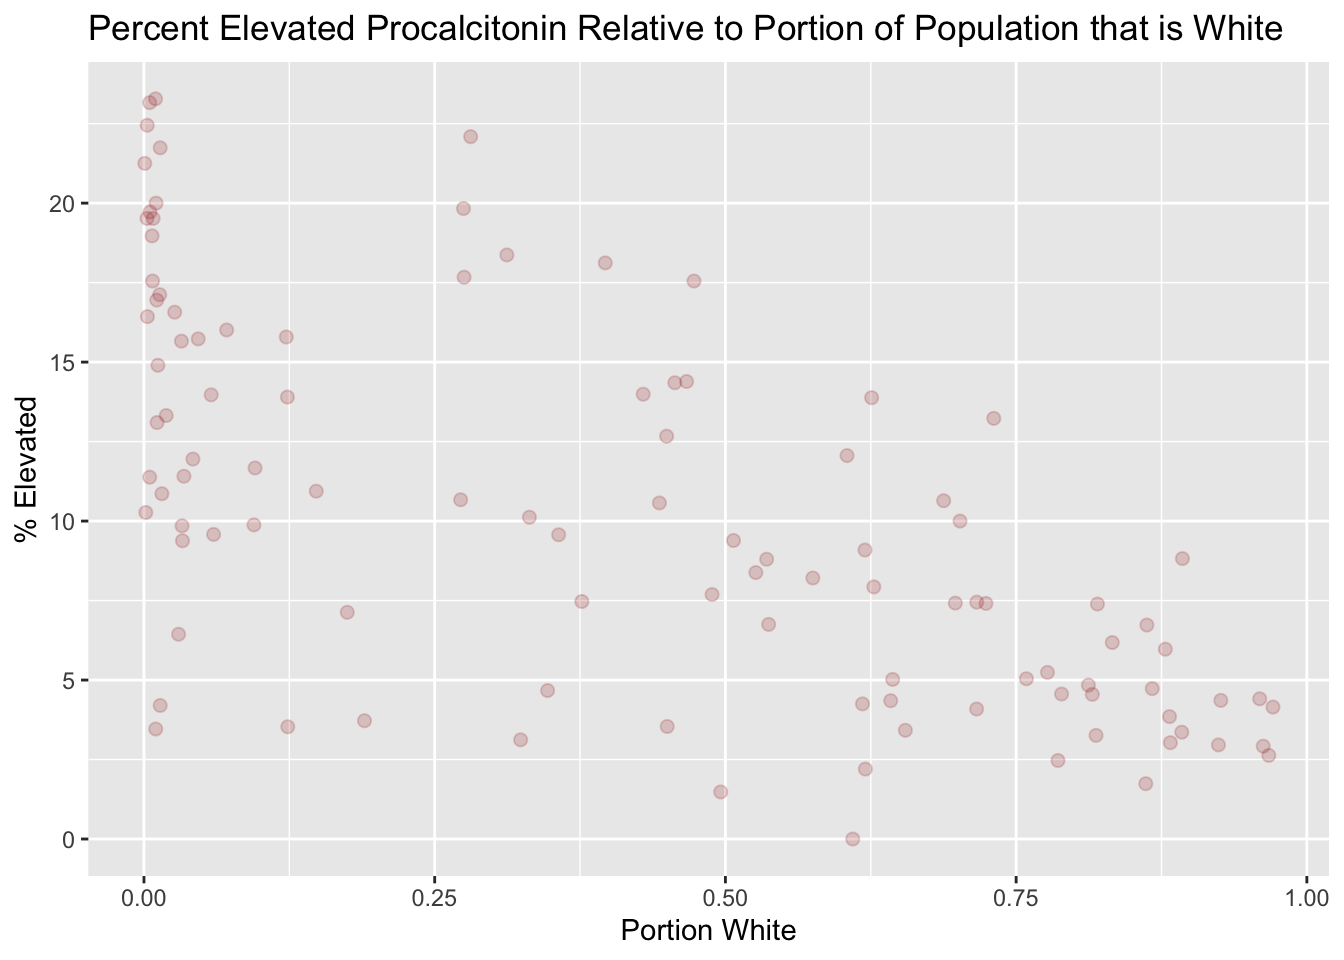
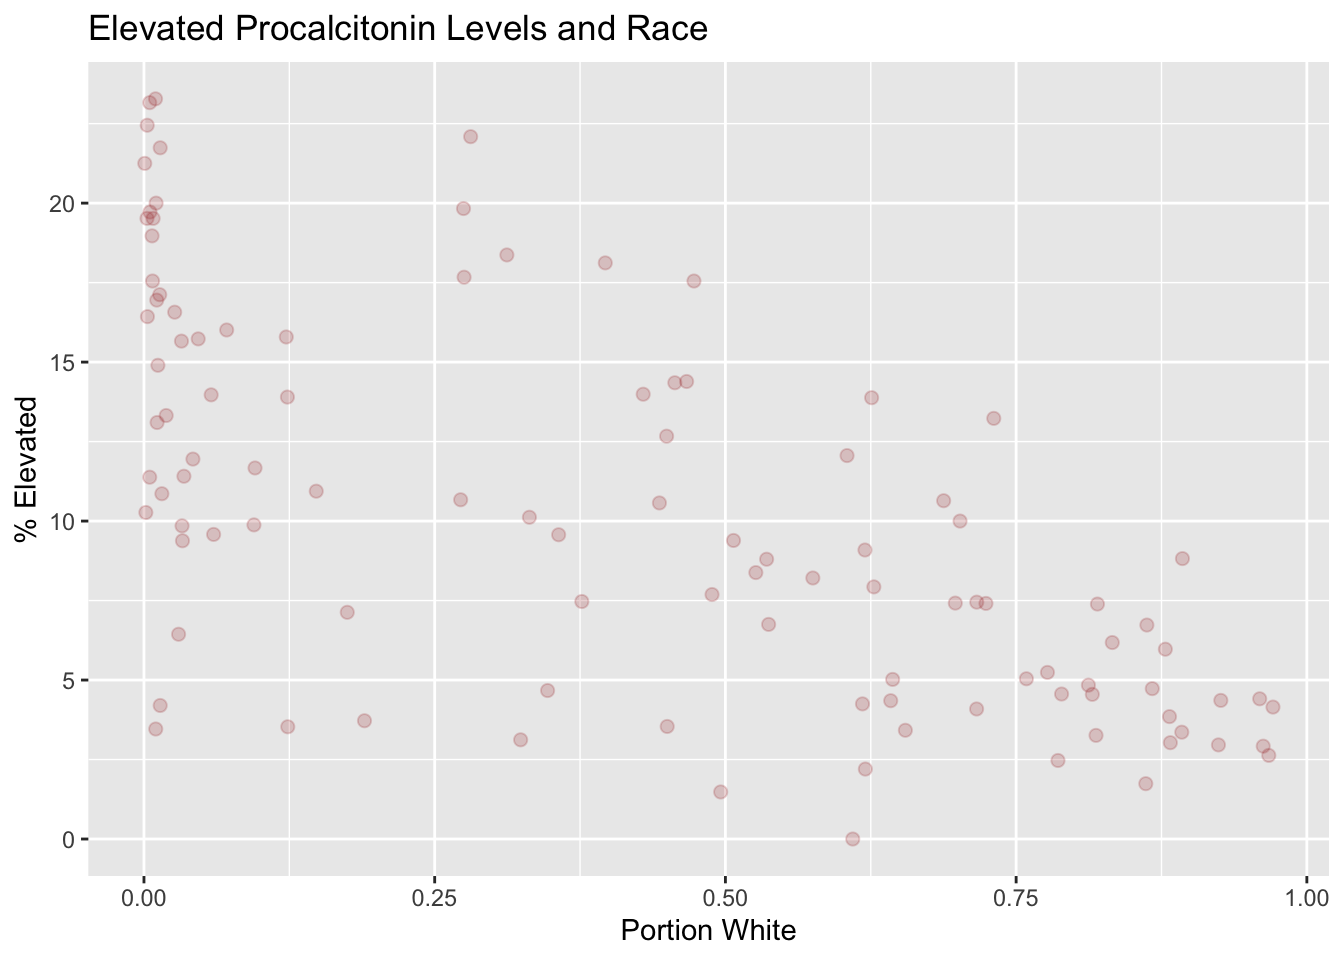
first commit

Changed region(s): [[0.0625, 0.0, 0.9375, 0.0625]]

diff --git a/docs/stl_lead_inequity.html b/docs/stl_lead_inequity.html
@@ -463,7 +463,7 @@ The following objects are masked from 'package:stats':
 <p>#Creating a Scatterplot</p>
 <div class="cell">
 <div class="sourceCode cell-code" id="cb12"><pre class="sourceCode r code-with-copy"><code class="sourceCode r"><span id="cb12-1"><a href="#cb12-1" aria-hidden="true" tabindex="-1"></a>stl_lead_plot <span class="ot">&lt;-</span> <span class="fu">ggplot</span>(<span class="at">data =</span> stl_lead_prop, <span class="fu">aes</span>(<span class="at">x =</span> prop_white, <span class="at">y =</span> pct_elevated)) <span class="sc">+</span> <span class="fu">geom_point</span>(<span class="at">size =</span> <span class="dv">2</span>, <span class="at">alpha =</span> <span class="dv">1</span><span class="sc">/</span><span class="dv">5</span>, <span class="at">colour =</span> <span class="st">"brown"</span>) <span class="sc">+</span></span>
-<span id="cb12-2"><a href="#cb12-2" aria-hidden="true" tabindex="-1"></a>  <span class="fu">labs</span>(<span class="at">title =</span> <span class="st">"Percent Elevated Procalcitonin Relative to Portion of Population that is White"</span>,</span>
+<span id="cb12-2"><a href="#cb12-2" aria-hidden="true" tabindex="-1"></a>  <span class="fu">labs</span>(<span class="at">title =</span> <span class="st">"Elevated Procalcitonin Levels and Race"</span>,</span>
 <span id="cb12-3"><a href="#cb12-3" aria-hidden="true" tabindex="-1"></a>         <span class="at">x =</span> <span class="st">"Portion White"</span>,</span>
 <span id="cb12-4"><a href="#cb12-4" aria-hidden="true" tabindex="-1"></a>         <span class="at">y =</span> <span class="st">"% Elevated"</span>)</span>
 <span id="cb12-5"><a href="#cb12-5" aria-hidden="true" tabindex="-1"></a>stl_lead_plot </span></code><button title="Copy to Clipboard" class="code-copy-button"><i class="bi"></i></button></pre></div>
@@ -477,6 +477,9 @@ The following objects are masked from 'package:stats':
 </div>
 <div class="sourceCode cell-code" id="cb13"><pre class="sourceCode r code-with-copy"><code class="sourceCode r"><span id="cb13-1"><a href="#cb13-1" aria-hidden="true" tabindex="-1"></a><span class="fu">ggsave</span>(here<span class="sc">::</span><span class="fu">here</span>(<span class="st">"figs"</span>, <span class="st">"stl_lead_plot.png"</span>), <span class="at">height =</span> <span class="dv">5</span>, <span class="at">width =</span> <span class="dv">6</span>)</span></code><button title="Copy to Clipboard" class="code-copy-button"><i class="bi"></i></button></pre></div>
 </div>
+</section>
+<section id="histogram" class="level1">
+<h1>Histogram</h1>
 <div class="cell">
 <div class="sourceCode cell-code" id="cb14"><pre class="sourceCode r code-with-copy"><code class="sourceCode r"><span id="cb14-1"><a href="#cb14-1" aria-hidden="true" tabindex="-1"></a>stl_lead_hist <span class="ot">&lt;-</span> <span class="fu">ggplot</span>(<span class="at">data =</span> stl_lead_prop, <span class="fu">aes</span>(<span class="at">x =</span> pct_elevated)) <span class="sc">+</span></span>
 <span id="cb14-2"><a href="#cb14-2" aria-hidden="true" tabindex="-1"></a>    <span class="fu">geom_histogram</span>(<span class="at">fill =</span> <span class="st">"beige"</span>, <span class="at">colour =</span> <span class="st">"brown"</span>) <span class="sc">+</span></span>
